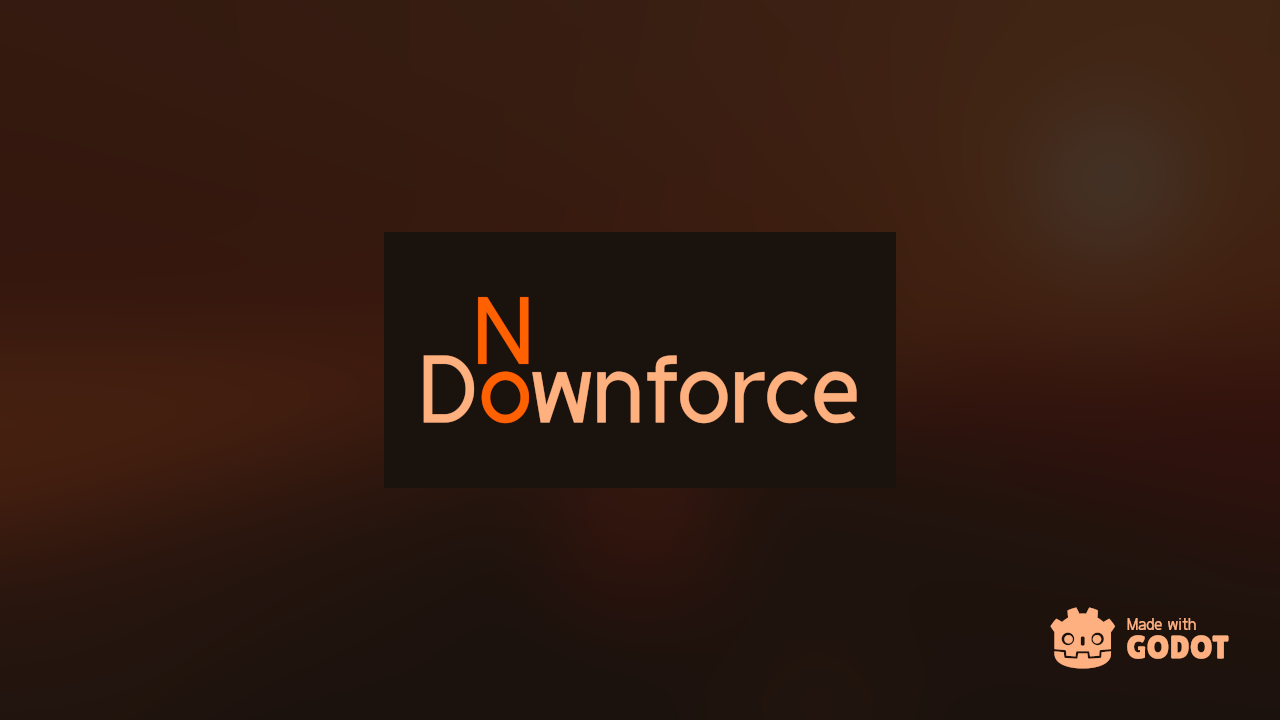
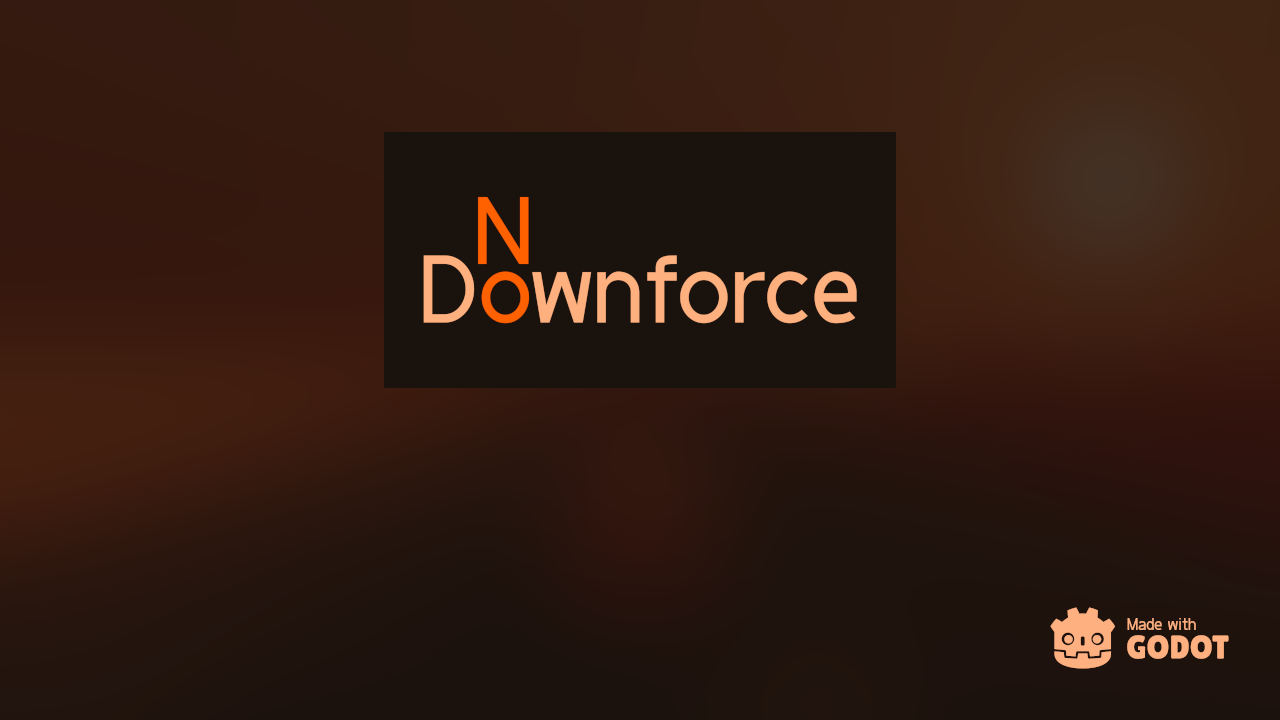
0.6.9-post2 - updated hud layout slightly

Changed region(s): [[0.2812, 0.1833, 0.7188, 0.6417]]

diff --git a/web_export_shell.html b/web_export_shell.html
@@ -65,25 +65,20 @@ body {
 #status-loading {
 	background-color: #1a120d;
 	color: #ffb07f;
-	font-family: 'Qaz', sans-serif;
-	margin: 0 auto;
-	bottom: 50px;
-	width: 512px;
-	overflow: hidden;
-	padding: 0.5rem 0;
-	text-align: center;
-	z-index: 1;
 }
 
 #status-notice {
 	background-color: #ff6000;
 	color: #1a120d;
+}
+
+#status-loading, #status-notice {
 	font-family: 'Qaz', sans-serif;
 	margin: 0 auto;
-	bottom: 50px;
-	width: 512px;
+	top: calc(50vh + 130px);
+	width: fit-content;
 	overflow: hidden;
-	padding: 0.5rem 0;
+	padding: 10px 10px;
 	text-align: center;
 	z-index: 1;
 }
